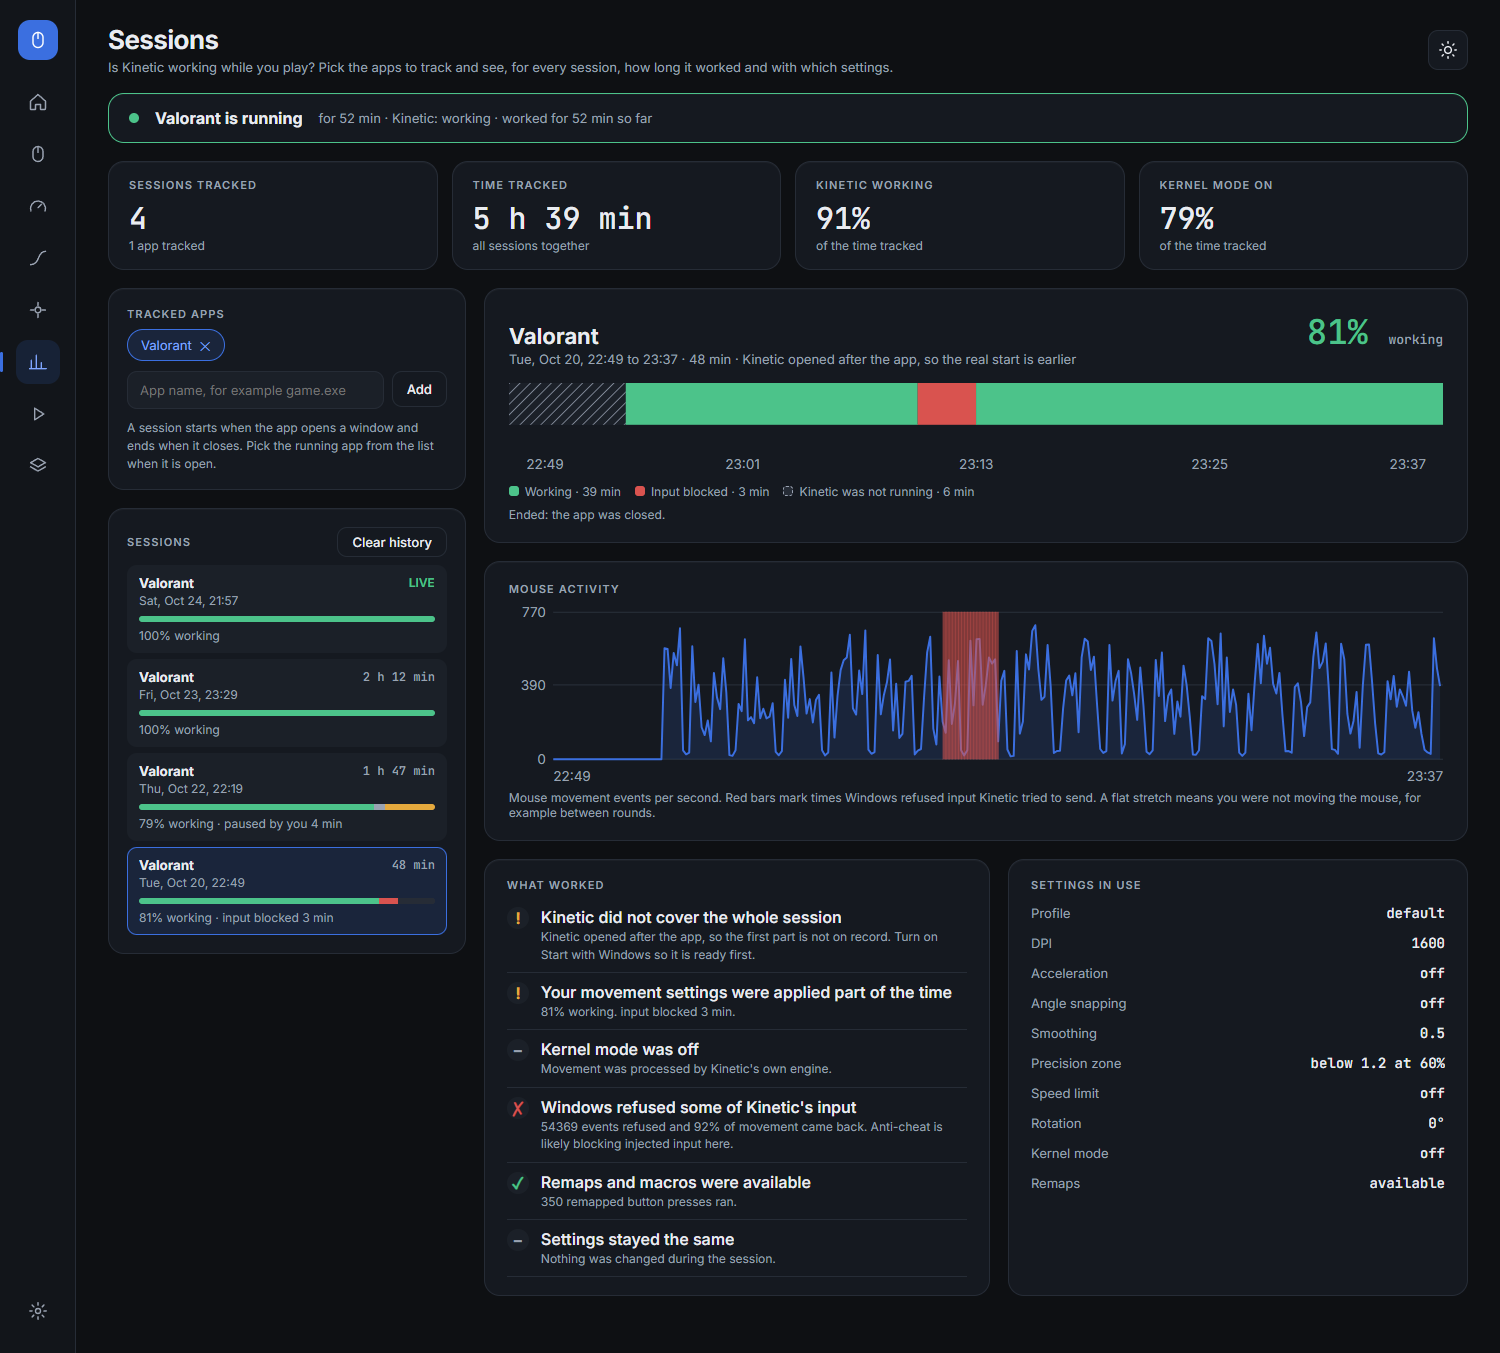
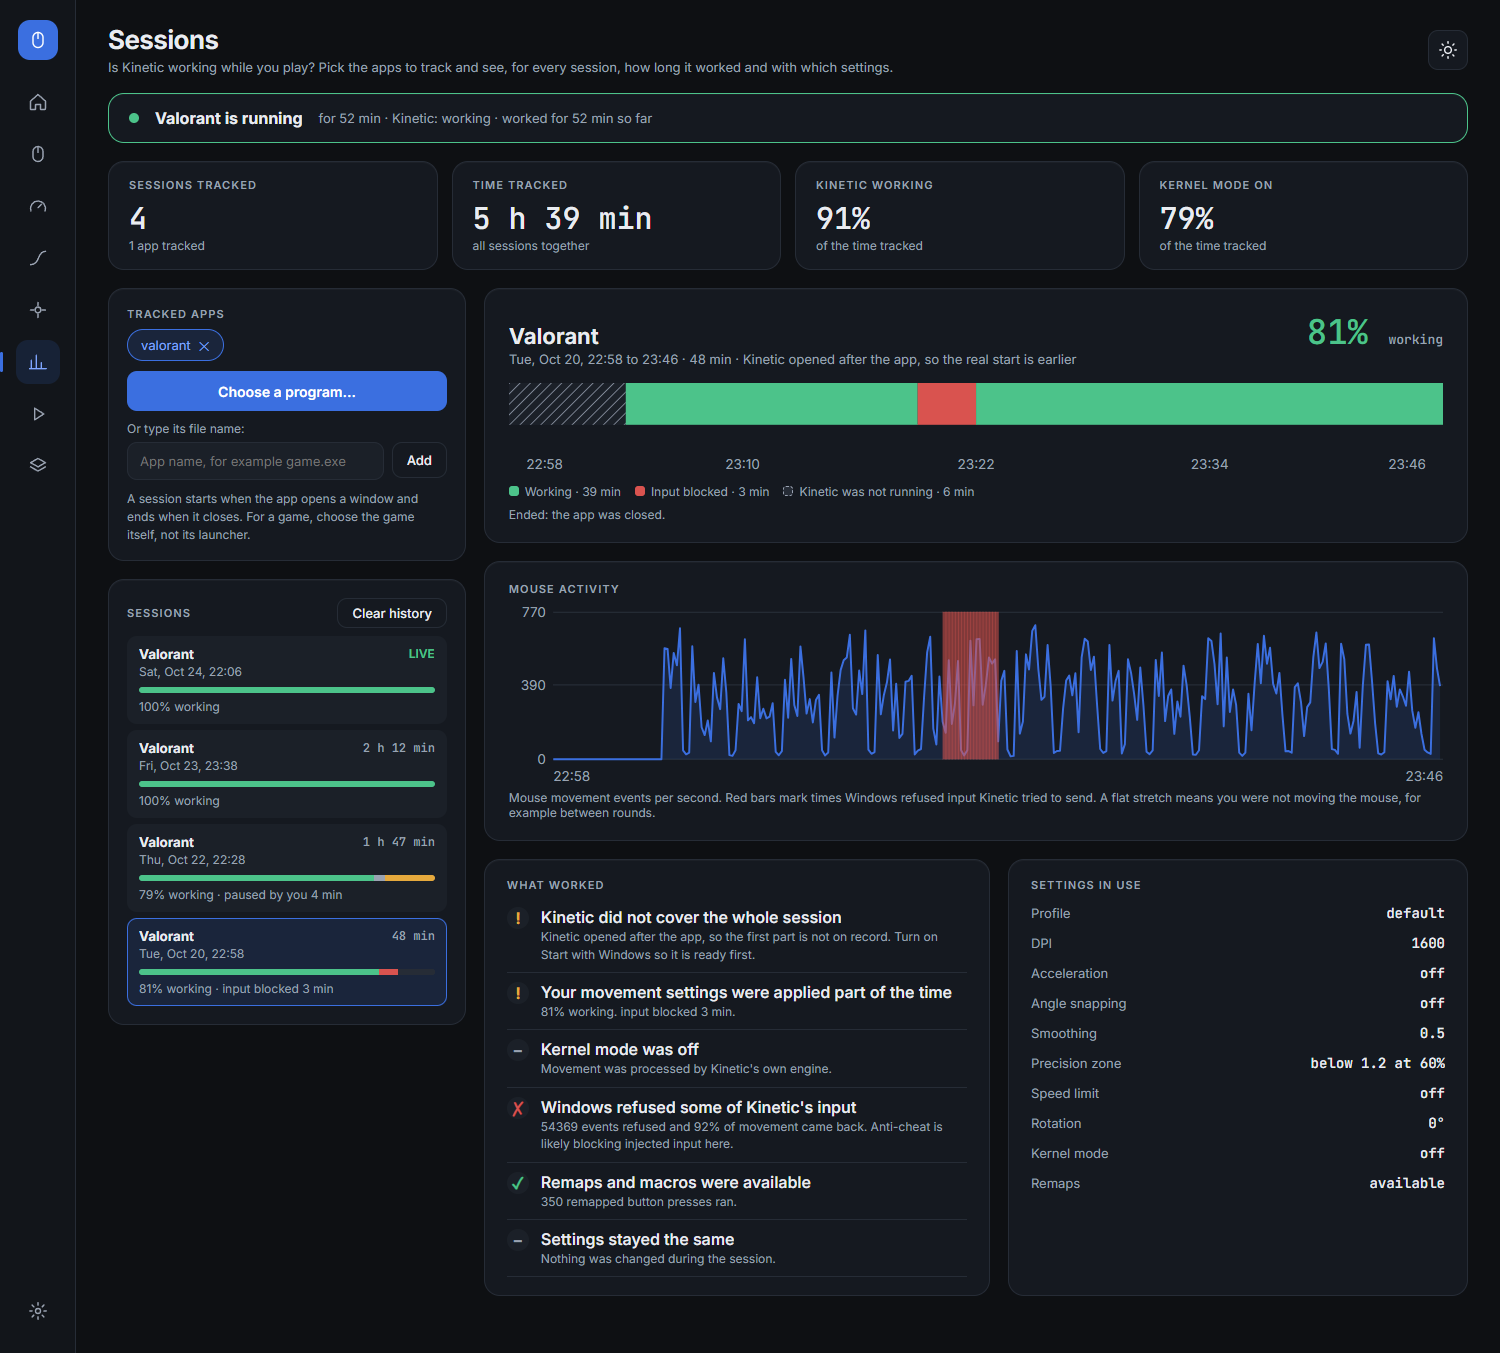
Sessions: choose a program with the Windows file picker

Changed region(s): [[0.0613, 0.2483, 0.3067, 0.745], [0.3987, 0.2483, 0.552, 0.2794]]

diff --git a/app/src/screens/Sessions.tsx b/app/src/screens/Sessions.tsx
@@ -159,17 +159,56 @@ function SessionRow({ s, on, onClick }: { s: SessionSummary; on: boolean; onClic
   );
 }
 
+/** A readable name for a program file, for example "Valorant" for VALORANT-Win64-Shipping.exe. */
+export function niceName(file: string): string {
+  const base = file
+    .replace(/\.exe$/i, "")
+    .replace(/[-_ ]?(win64|win32|x64|x86|shipping)\b/gi, "")
+    .replace(/[-_]+$/g, "")
+    .replace(/[-_]+/g, " ")
+    .trim();
+  if (!base) return file;
+  // ALL CAPS reads as shouting; a name like "Notepad" or "Valorant" is nicer.
+  const text = base === base.toUpperCase() ? base.charAt(0) + base.slice(1).toLowerCase() : base === base.toLowerCase() ? base.charAt(0).toUpperCase() + base.slice(1) : base;
+  return text.slice(0, 40);
+}
+
+/** Launchers that do not open a window of their own, and the program that does. */
+const REAL_PROGRAM: Record<string, { exe: string; note: string }> = {
+  "valorant.exe": { exe: "valorant-win64-shipping.exe", note: "VALORANT.exe is only the launcher, so Kinetic is tracking the game itself (VALORANT-Win64-Shipping.exe)." },
+};
+
 function TrackerCard({ engine }: { engine: EngineState }) {
   const { config, apps } = engine;
   const [text, setText] = useState("");
+  const [note, setNote] = useState("");
   const tracked = config.tracked;
   const VALORANT = "valorant-win64-shipping.exe";
 
   const add = (exe: string, name?: string) => {
     const e = exe.trim().toLowerCase();
     if (!e || tracked.some((t) => t.exe === e)) return;
-    engine.setConfig({ ...config, tracked: [...tracked, { exe: e, name: (name ?? e.replace(/\.exe$/, "")).slice(0, 40) }] });
+    engine.setConfig({ ...config, tracked: [...tracked, { exe: e, name: (name ?? niceName(e)).slice(0, 40) }] });
     setText("");
+  };
+
+  // Opens Windows' own file picker, so any program can be chosen without knowing its file name.
+  const browse = async () => {
+    const path = await window.kinetic?.pickProgram?.();
+    if (!path) return;
+    const file = (path.split(/[\\/]/).pop() ?? "").toLowerCase();
+    if (!file.endsWith(".exe")) {
+      setNote("Please choose a program (.exe).");
+      return;
+    }
+    const real = REAL_PROGRAM[file];
+    const exe = real?.exe ?? file;
+    if (tracked.some((t) => t.exe === exe)) {
+      setNote(`${niceName(exe)} is already tracked.`);
+      return;
+    }
+    setNote(real?.note ?? "");
+    add(exe, niceName(exe));
   };
   const remove = (exe: string) => engine.setConfig({ ...config, tracked: tracked.filter((t) => t.exe !== exe) });
 
@@ -185,6 +224,9 @@ function TrackerCard({ engine }: { engine: EngineState }) {
           </span>
         ))}
       </div>
+      <button type="button" className="btn" style={{ width: "100%", marginBottom: 10 }} onClick={browse} disabled={!window.kinetic?.pickProgram}>Choose a program…</button>
+      {note && <div className="sub" style={{ fontSize: 12, marginBottom: 10, lineHeight: 1.5 }} role="status">{note}</div>}
+      <div className="sub" style={{ fontSize: 12, marginBottom: 6 }}>Or type its file name:</div>
       <form
         style={{ display: "flex", gap: 8 }}
         onSubmit={(e) => {
@@ -200,7 +242,7 @@ function TrackerCard({ engine }: { engine: EngineState }) {
         <button type="button" className="btn2" style={{ marginTop: 10, height: 32 }} onClick={() => add(VALORANT, "Valorant")}>Track Valorant</button>
       )}
       <div className="sub" style={{ fontSize: 12, marginTop: 10, lineHeight: 1.5 }}>
-        A session starts when the app opens a window and ends when it closes. Pick the running app from the list when it is open.
+        A session starts when the app opens a window and ends when it closes. For a game, choose the game itself, not its launcher.
       </div>
     </div>
   );

diff --git a/app/electron/main.ts b/app/electron/main.ts
@@ -483,6 +483,17 @@ ipcMain.handle("app:pickFile", async () => {
   return result.canceled ? null : result.filePaths[0] ?? null;
 });
 
+// A file picker for programs only, for choosing an app to track.
+ipcMain.handle("app:pickProgram", async () => {
+  const options = {
+    title: "Choose the program to track",
+    properties: ["openFile" as const],
+    filters: [{ name: "Programs", extensions: ["exe"] }],
+  };
+  const result = win ? await dialog.showOpenDialog(win, options) : await dialog.showOpenDialog(options);
+  return result.canceled ? null : result.filePaths[0] ?? null;
+});
+
 // ---- updates ------------------------------------------------------------------------------------
 
 type UpdateStatus =

diff --git a/app/scripts/shoot-sessions.js b/app/scripts/shoot-sessions.js
@@ -22,7 +22,7 @@ app.whenReady().then(async () => {
     await sleep(1200);
     await run(`document.querySelector('[aria-label="Sessions"]').click()`);
     await sleep(1200);
-    await run(`[...document.querySelectorAll("button")].find((b) => b.textContent.trim() === "Track Valorant").click()`);
+    await run(`[...document.querySelectorAll("button")].find((b) => b.textContent.trim().startsWith("Choose a program")).click()`);
     await sleep(1200);
     await win.webContents.capturePage();
     await sleep(500);

diff --git a/app/electron/preload.ts b/app/electron/preload.ts
@@ -34,6 +34,9 @@ contextBridge.exposeInMainWorld("kinetic", {
     repair: (): Promise<unknown> => ipcRenderer.invoke("app:repairStartup"),
     openWindowsSettings: (): Promise<void> => ipcRenderer.invoke("app:openStartupSettings"),
   },
+  pickProgram(): Promise<string | null> {
+    return ipcRenderer.invoke("app:pickProgram");
+  },
   exportSettings(text: string): Promise<string | null> {
     return ipcRenderer.invoke("app:exportSettings", text);
   },

diff --git a/app/src/devMock.ts b/app/src/devMock.ts
@@ -215,6 +215,7 @@ export function installDevMock() {
       }
     },
     pickFile: async () => "C:\\Windows\\notepad.exe",
+    pickProgram: async () => "C:\\Riot Games\\VALORANT\\live\\ShooterGame\\Binaries\\Win64\\VALORANT-Win64-Shipping.exe",
     getAppSettings: async () => ({ ...settings }),
     setAppSettings: async (s) => {
       settings = { ...settings, ...s };

diff --git a/app/src/engine.ts b/app/src/engine.ts
@@ -440,6 +440,7 @@ export interface KineticBridge {
   getStatus?(): Promise<{ connected: boolean }>;
   /** Desktop-only helpers. Missing in a plain browser. */
   pickFile?(): Promise<string | null>;
+  pickProgram?(): Promise<string | null>;
   getVersion?(): Promise<string>;
   showLog?(): Promise<void>;
   startup?: {

diff --git a/README.md b/README.md
@@ -194,7 +194,7 @@ Answers the question "did Kinetic actually work while I played?". Pick the apps 
 ![Sessions dashboard](docs/screenshots/sessions.png)
 
 **Set it up**
-1. Open **Sessions**. In **Tracked apps**, press **Track Valorant**, or type the app's file name (for example `game.exe`) and press **Add**. While the app is open it also appears in the list as you type.
+1. Open **Sessions**. In **Tracked apps**, press **Choose a program…**. Windows' file picker opens, so you can browse to any program's `.exe` and pick it. Kinetic adds it with a readable name. For Valorant there is also a **Track Valorant** shortcut, and if you pick `VALORANT.exe` (only the launcher) Kinetic tracks the game itself, `VALORANT-Win64-Shipping.exe`, instead. You can also type a file name and press **Add**.
 2. Play. Nothing else to do: a session starts when the app opens a window and ends when it closes. Closing Kinetic or removing the app from the list ends it too.
 
 **What you see**
